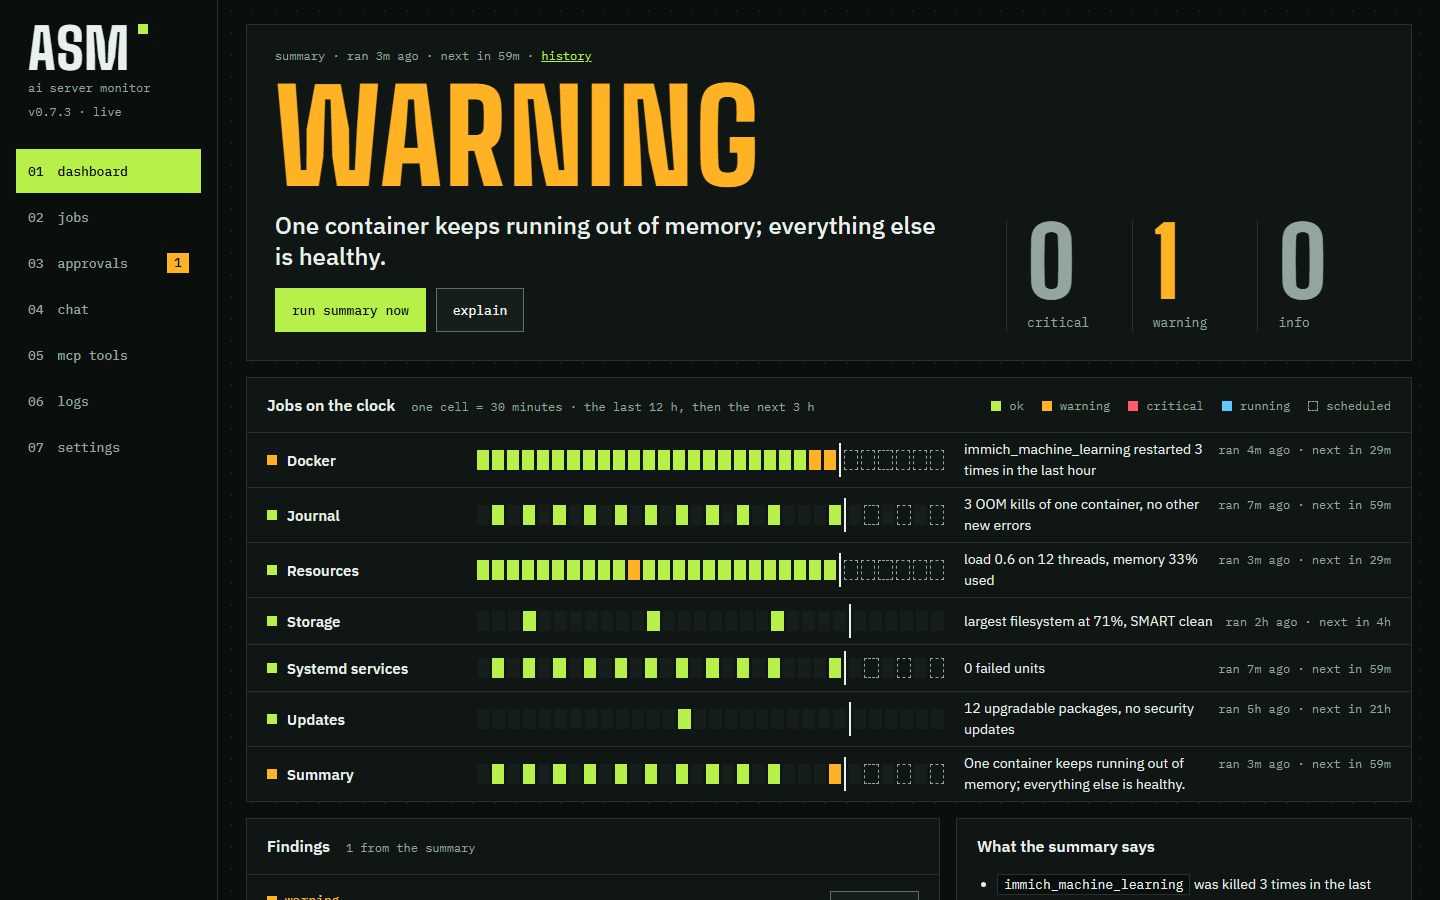
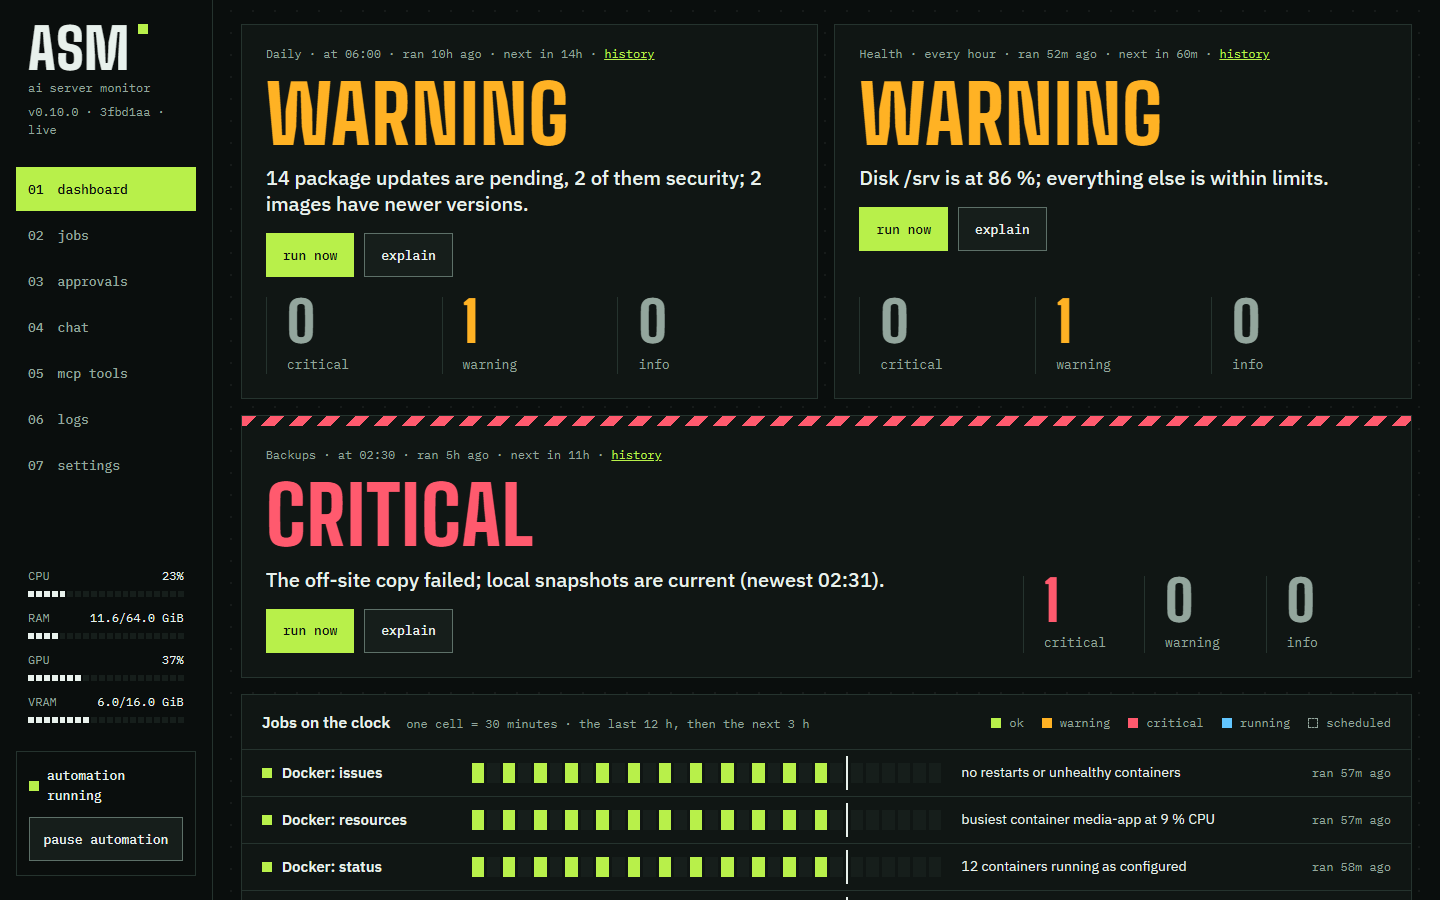
Docs: screenshots and design title for 0.10.0

diff --git a/README.md b/README.md
@@ -41,10 +41,10 @@ It passes only on a real tool call; a model that writes the call as text fails t
 
 | | |
 |---|---|
-| [![Dashboard: the overall status from the summaries and every job's runs on a clock](docs/samples/ui/dashboard.png)](docs/samples/ui/dashboard.png) | [![Jobs: schedules, models, last results, Run now](docs/samples/ui/jobs.png)](docs/samples/ui/jobs.png) |
-| **Dashboard**: the overall status, then every job's runs on a clock | **Jobs**: turn jobs on and off, edit them, run one now |
-| [![A run of the Docker job with its summary and findings](docs/samples/ui/job-run.png)](docs/samples/ui/job-run.png) | [![Chat asking to approve a command on the host](docs/samples/ui/chat-approval.png)](docs/samples/ui/chat-approval.png) |
-| **A job run**: what the model found, with findings by severity | **Chat**: a change runs only after you approve the command |
+| [![Dashboard: one card per summary and every job's runs on a clock](docs/samples/ui/dashboard.png)](docs/samples/ui/dashboard.png) | [![Jobs: summaries and jobs with schedules, notify, last results, Run now](docs/samples/ui/jobs.png)](docs/samples/ui/jobs.png) |
+| **Dashboard**: one card per summary, then every job's runs on a clock | **Jobs**: summaries and their jobs; turn them on and off, edit them, run one now |
+| [![A run of the Health summary with its findings and the jobs it ran](docs/samples/ui/job-run.png)](docs/samples/ui/job-run.png) | [![Chat asking to approve a command on the host](docs/samples/ui/chat-approval.png)](docs/samples/ui/chat-approval.png) |
+| **A summary run**: the headline, findings by severity, and its jobs in the order they ran | **Chat**: a change runs only after you approve the command |
 
 ## Quick start
 

diff --git a/docs/DESIGN.md b/docs/DESIGN.md
@@ -1,4 +1,4 @@
-# AI Server Monitor — Design (0.8)
+# AI Server Monitor — Design
 
 One container on the monitored host: a FastAPI backend (`backend/ai_server_monitor/`) and a
 React/Vite SPA (`frontend/`, served by the backend). The rule since 0.7: **nothing is collected
